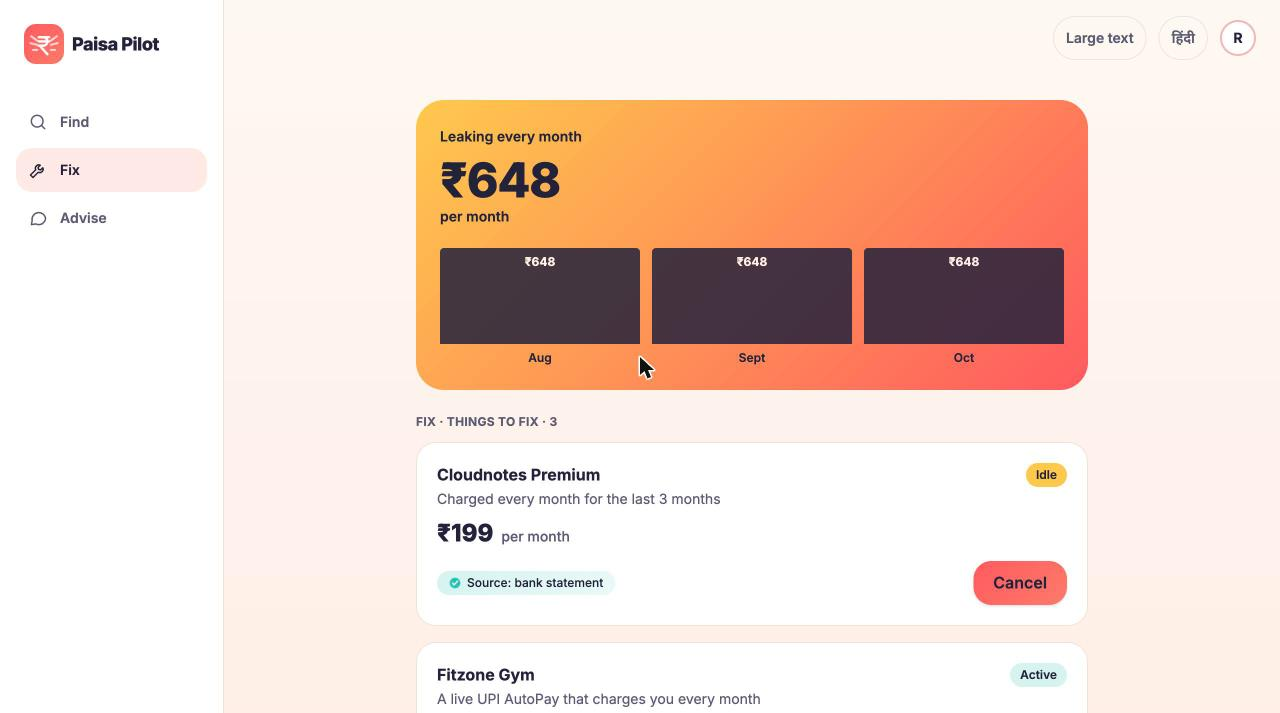
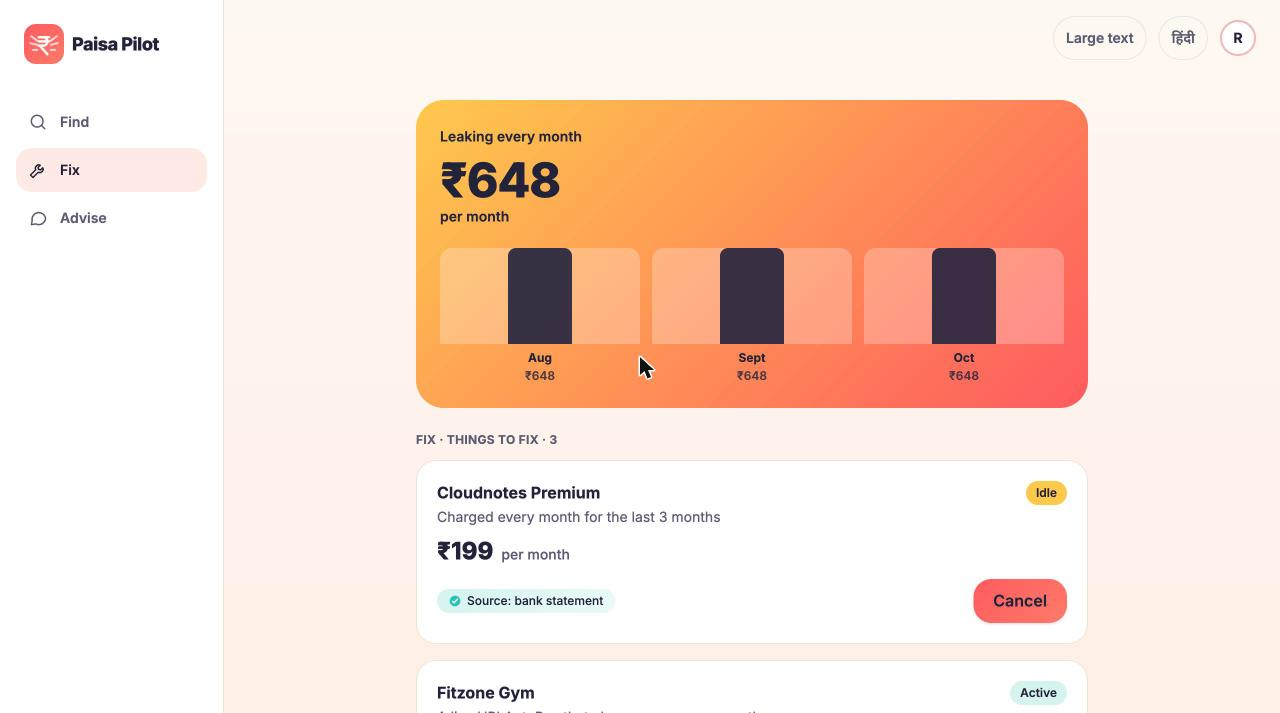
README: live demo link and screenshots

Changed region(s): [[0.3125, 0.4937, 0.875, 0.9874], [0.3438, 0.3394, 0.8438, 0.4937], [0.7812, 0.648, 0.8438, 0.7097]]

diff --git a/README.md b/README.md
@@ -13,6 +13,12 @@ Buildathon India 2026.
 > act on. See `LIMITATIONS.md` for the full list of what's stubbed,
 > unverified, or out of scope.
 
+**Live demo:** https://paisa-pilot-web-316611436028.asia-south1.run.app (click *Try with sample data*, no sign-up)
+
+| Landing | Find: money you are owed | Fix: money that leaks |
+|---|---|---|
+| ![Landing page](docs/screenshots/landing.jpg) | ![Home with money found](docs/screenshots/home.jpg) | ![Leak Fixer](docs/screenshots/fix.jpg) |
+
 ## What this is
 
 Three modules, one trust story:
